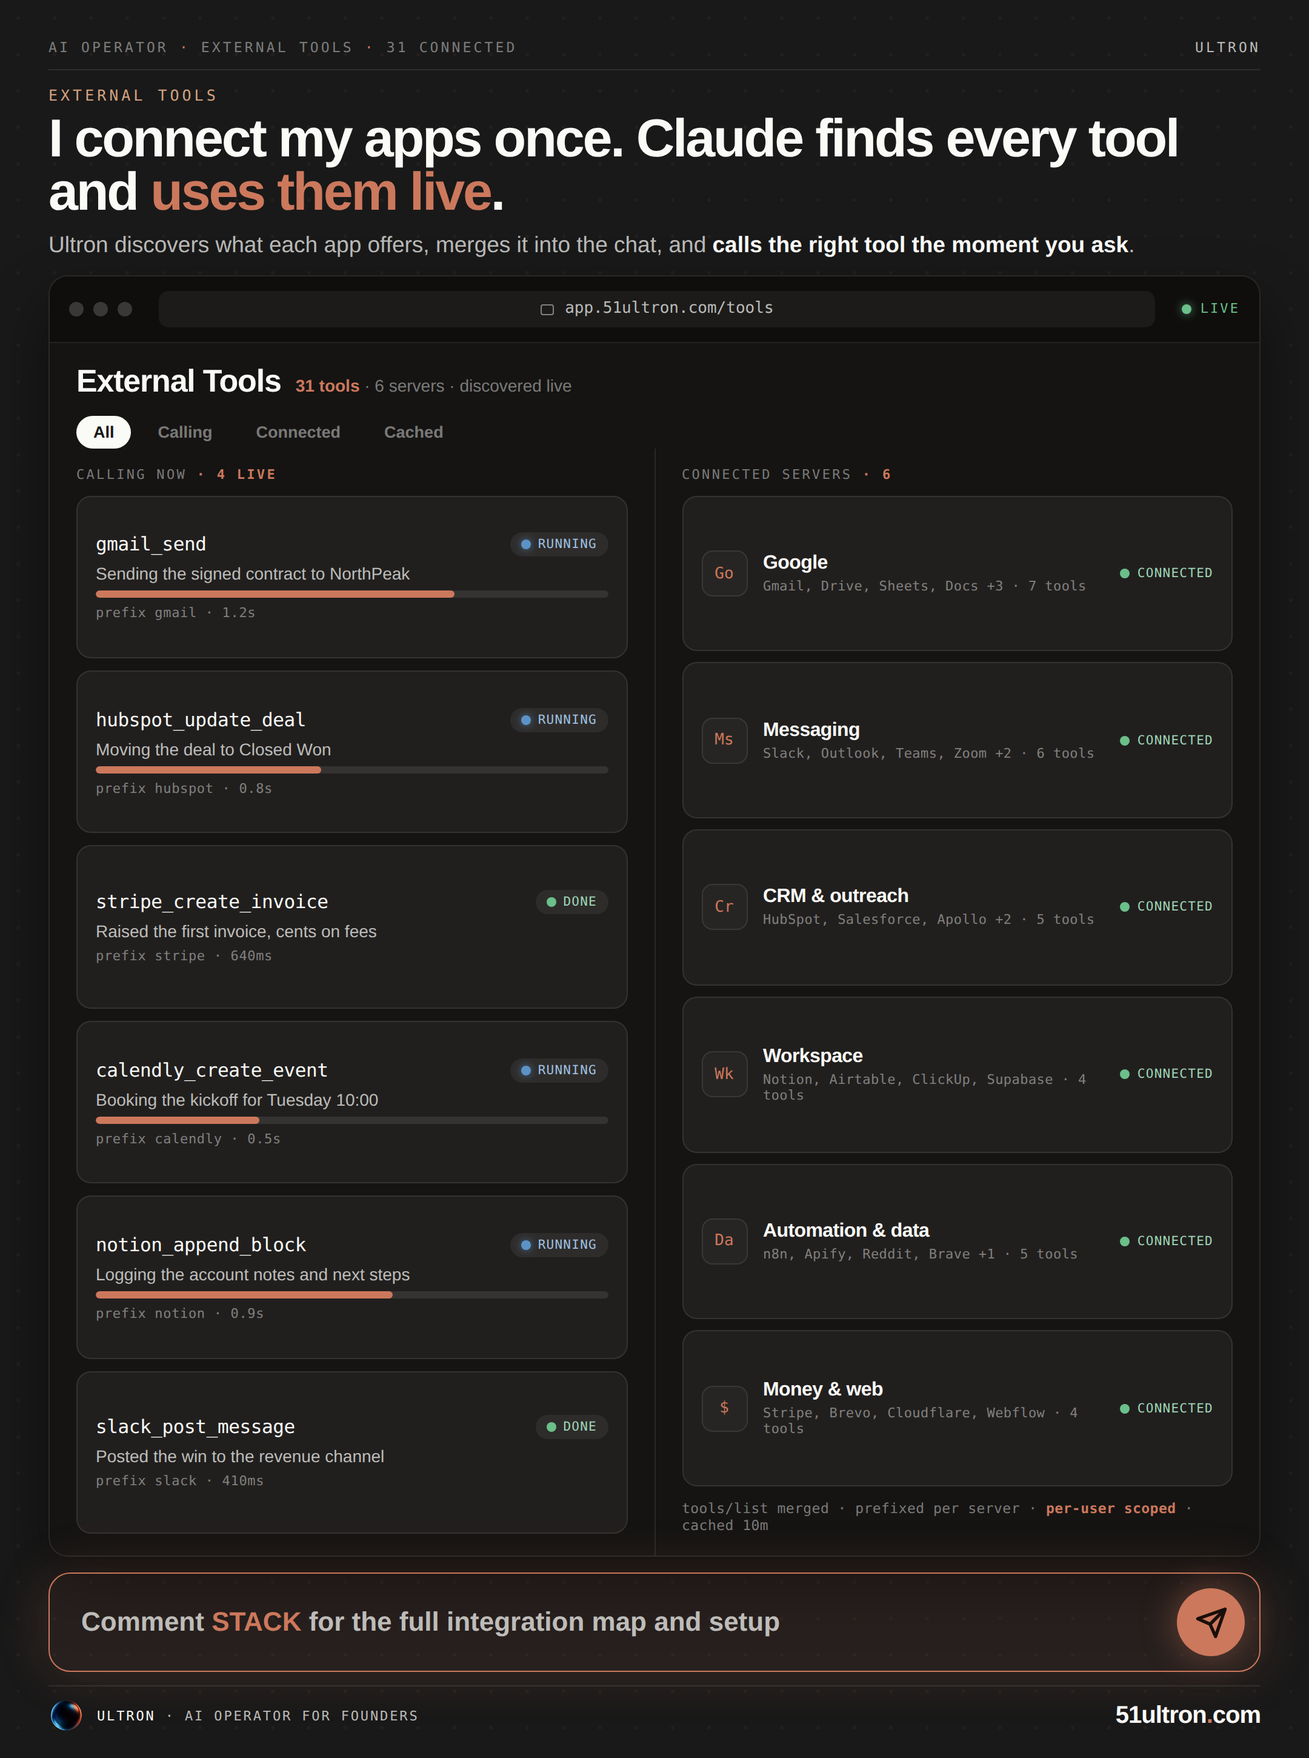
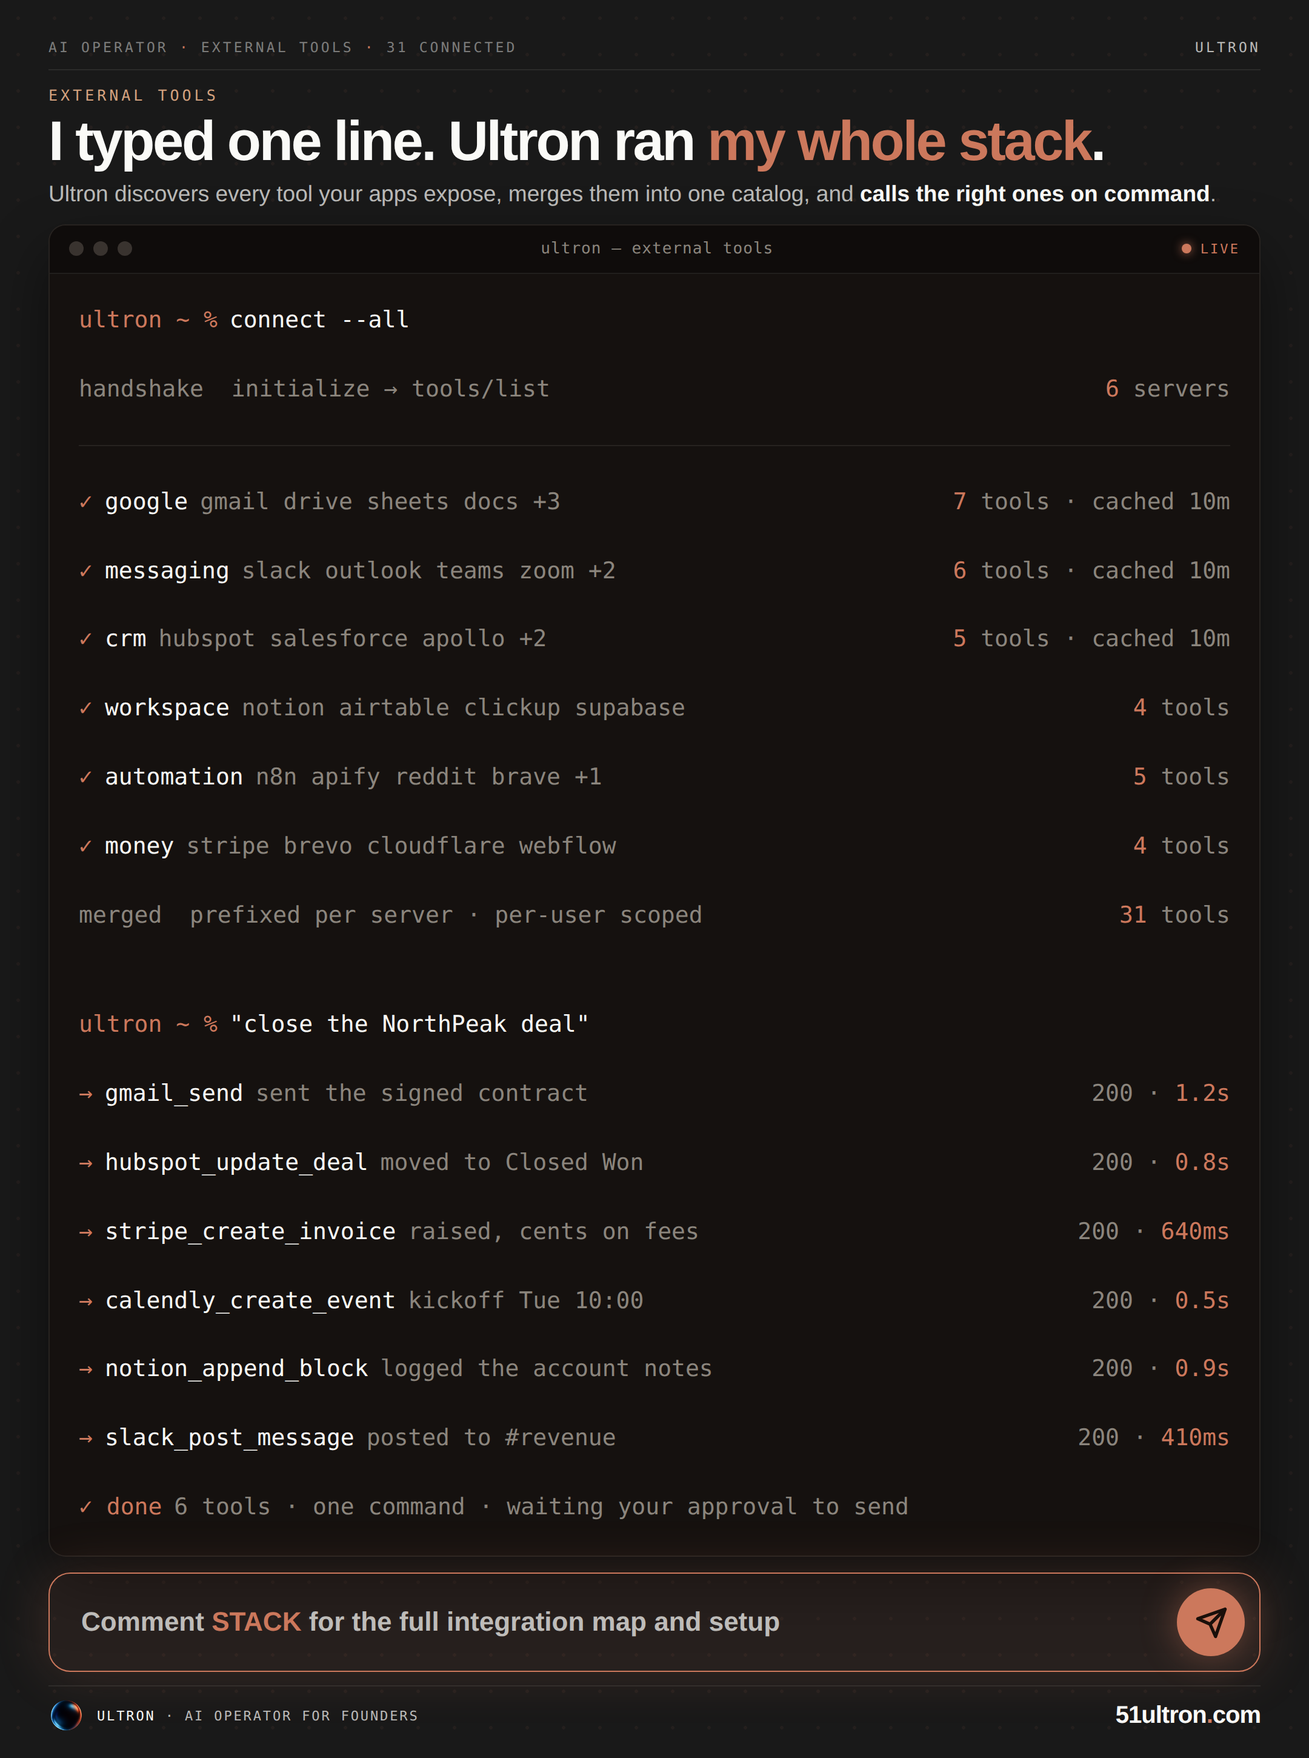
LinkedIn external-tools: rebuild as dense Ultron terminal (Ultron hook, terracotta console, edge-to-edge)

diff --git a/content/tools-external-linkedin.html b/content/tools-external-linkedin.html
@@ -5,11 +5,9 @@
 <title>tools-external - LinkedIn 1080x1450</title>
 <style>
 @import 'https://fonts.googleapis.com/css2?family=DM+Sans:opsz,wght@9..40,400;9..40,500;9..40,600;9..40,700;9..40,800;9..40,900&family=DM+Mono:wght@400;500&display=swap';
-/* tools-external v3 - the Background Jobs SCREEN look (dark, live processes) put in a laptop WINDOW,
-   external-tools context, packed edge to edge like the phone. No drawn laptop device. Flat 2D. */
-:root{--slate:#191919;--panel:#151413;--card:#211f1e;--card2:#272523;--ivory:#FAFAF7;--ink70:rgba(250,250,247,.72);
---ink46:rgba(250,250,247,.46);--rule:rgba(250,250,247,.09);--book:#CC785C;--book-d:#C84623;--kraft:#D4A27F;
---run:#5b93c7;--ok:#6bbf8a;}
+/* tools-external v4 - Ultron TERMINAL, dense external-tools console. Ultron hook (not Claude). Dark Ultron. */
+:root{--slate:#191919;--term:#15110f;--termbar:#0f0c0b;--ivory:#FAFAF7;--ink70:rgba(250,250,247,.72);--ink46:rgba(250,250,247,.46);
+--rule:rgba(250,250,247,.08);--book:#CC785C;--book-d:#C84623;--kraft:#D4A27F;--mut:#8b857d;}
 *{box-sizing:border-box;margin:0;padding:0;}
 body{background:#0d0d0d;display:flex;justify-content:center;padding:24px 0;font-family:'DM Sans',sans-serif;-webkit-font-smoothing:antialiased;}
 .frame{width:1080px;height:1450px;background:var(--slate);padding:32px 40px 20px;position:relative;overflow:hidden;color:var(--ivory);display:flex;flex-direction:column;}
@@ -17,55 +15,29 @@ body{background:#0d0d0d;display:flex;justify-content:center;padding:24px 0;font-
 .atm{position:absolute;inset:0;pointer-events:none;z-index:1;background:radial-gradient(ellipse 54% 20% at 90% -2%,rgba(204,120,92,.18) 0%,transparent 60%);}
 .frame>*{position:relative;z-index:2;}
 .mast{flex-shrink:0;display:flex;align-items:center;justify-content:space-between;padding-bottom:11px;border-bottom:1px solid var(--rule);font-family:'DM Mono',monospace;font-size:11.5px;font-weight:500;letter-spacing:.18em;text-transform:uppercase;}
-.mast .ml{color:var(--ink46);}.mast .ml em{color:var(--book);font-style:normal;}
-.mast .mr{color:var(--ink70);}
+.mast .ml{color:var(--ink46);}.mast .ml em{color:var(--book);font-style:normal;}.mast .mr{color:var(--ink70);}
 .hero{flex-shrink:0;margin-top:13px;}
 .eye{font-family:'DM Mono',monospace;font-size:12.5px;font-weight:500;letter-spacing:.2em;text-transform:uppercase;color:var(--kraft);}
-.hook{margin-top:7px;font-weight:900;font-size:44px;line-height:1;letter-spacing:-1.6px;}.hook em{color:var(--book);font-style:normal;}
+.hook{margin-top:7px;font-weight:900;font-size:46px;line-height:1;letter-spacing:-1.7px;}.hook em{color:var(--book);font-style:normal;}
 .sub{margin-top:9px;font-size:18.5px;font-weight:500;line-height:1.28;color:var(--ink70);max-width:1000px;}.sub b{color:var(--ivory);font-weight:700;}
-/* browser window */
-.win{flex:1;min-height:0;margin-top:13px;display:flex;flex-direction:column;border:1px solid var(--rule);border-radius:16px;overflow:hidden;background:var(--panel);box-shadow:0 24px 50px rgba(0,0,0,.45);}
-.wbar{flex-shrink:0;display:flex;align-items:center;gap:8px;padding:12px 16px;background:#0f0e0d;border-bottom:1px solid var(--rule);}
-.wbar .dot{width:12px;height:12px;border-radius:50%;background:#3a3836;}
-.wurl{flex:1;margin:0 14px;height:30px;border-radius:8px;background:#1c1b1a;display:flex;align-items:center;justify-content:center;gap:9px;font-family:'DM Mono',monospace;font-size:13px;color:var(--ink70);}
-.wurl .lock{width:11px;height:9px;border:1.5px solid var(--ink46);border-radius:2px;position:relative;margin-top:2px;}
-.wlive{display:flex;align-items:center;gap:7px;font-family:'DM Mono',monospace;font-size:11px;letter-spacing:.14em;text-transform:uppercase;color:var(--ok);}
-.wlive .d{width:8px;height:8px;border-radius:50%;background:var(--ok);box-shadow:0 0 8px rgba(107,191,138,.7);}
-/* app */
-.ahead{flex-shrink:0;padding:16px 22px 0;}
-.atop{display:flex;align-items:baseline;gap:12px;}
-.atop h1{font-weight:800;font-size:26px;letter-spacing:-.6px;}
-.atop .m{font-size:14px;color:var(--ink46);}.atop .m b{color:var(--book);font-weight:700;}
-.tabs{display:flex;gap:8px;margin-top:13px;}
-.tab{font-size:13.5px;font-weight:600;color:var(--ink46);padding:6px 14px;border-radius:18px;}
-.tab.on{background:var(--ivory);color:#161514;font-weight:800;}
-.acols{flex:1;min-height:0;display:flex;gap:0;}
-.col{flex:1;min-height:0;padding:15px 22px 18px;display:flex;flex-direction:column;}
-.col.l{border-right:1px solid var(--rule);}
-.clab{font-family:'DM Mono',monospace;font-size:11px;font-weight:500;letter-spacing:.15em;text-transform:uppercase;color:var(--ink46);margin-bottom:11px;}
-.clab b{color:var(--book);}
-.calls{flex:1;min-height:0;display:flex;flex-direction:column;gap:10px;}
-.call{flex:1;min-height:0;background:var(--card);border:1px solid var(--rule);border-radius:12px;padding:12px 15px;display:flex;flex-direction:column;justify-content:center;gap:6px;}
-.crow{display:flex;align-items:center;gap:9px;}
-.cname{font-family:'DM Mono',monospace;font-weight:500;font-size:15.5px;color:var(--ivory);letter-spacing:-.2px;}
-.chip{display:flex;align-items:center;gap:6px;font-family:'DM Mono',monospace;font-size:10.5px;font-weight:500;letter-spacing:.06em;text-transform:uppercase;padding:4px 9px;border-radius:16px;background:rgba(250,250,247,.06);color:var(--ink70);margin-left:auto;}
-.chip .sd{width:8px;height:8px;border-radius:50%;}
-.chip.run .sd{background:var(--run);box-shadow:0 0 7px rgba(91,147,199,.7);}.chip.run{color:#9fc0e0;}
-.chip.ok .sd{background:var(--ok);}.chip.ok{color:#9ed6b6;}
-.chip.q .sd{background:#6b6a66;}
-.cdesc{font-size:14px;color:var(--ink70);}
-.pbar{height:6px;border-radius:3px;background:rgba(250,250,247,.09);overflow:hidden;}.pbar>i{display:block;height:100%;background:var(--book);border-radius:3px;}
-.cmeta{font-family:'DM Mono',monospace;font-size:11px;color:var(--ink46);letter-spacing:.03em;}
-.srv{flex:1;min-height:0;display:flex;flex-direction:column;gap:9px;}
-.s{flex:1;min-height:0;background:var(--card);border:1px solid var(--rule);border-radius:12px;padding:11px 15px;display:flex;align-items:center;gap:13px;}
-.s .ic{width:38px;height:38px;flex-shrink:0;border-radius:9px;background:var(--card2);border:1px solid var(--rule);display:flex;align-items:center;justify-content:center;font-family:'DM Mono',monospace;font-weight:500;font-size:13px;color:var(--book);}
-.s .sx{flex:1;min-width:0;}
-.s .sn{font-weight:700;font-size:16px;letter-spacing:-.3px;}
-.s .sm{font-family:'DM Mono',monospace;font-size:11px;color:var(--ink46);margin-top:3px;letter-spacing:.02em;}
-.s .sc{display:flex;align-items:center;gap:6px;font-family:'DM Mono',monospace;font-size:10.5px;letter-spacing:.06em;text-transform:uppercase;color:#9ed6b6;flex-shrink:0;}
-.s .sc .sd{width:8px;height:8px;border-radius:50%;background:var(--ok);}
-.note{flex-shrink:0;margin-top:11px;font-family:'DM Mono',monospace;font-size:11.5px;color:var(--ink46);letter-spacing:.02em;}
-.note b{color:var(--book);}
+/* terminal */
+.term{flex:1;min-height:0;margin-top:13px;display:flex;flex-direction:column;border:1px solid var(--rule);border-radius:14px;overflow:hidden;background:var(--term);box-shadow:0 24px 50px rgba(0,0,0,.45);}
+.tbar{flex-shrink:0;display:flex;align-items:center;gap:8px;padding:12px 16px;background:var(--termbar);border-bottom:1px solid var(--rule);}
+.tbar .dot{width:12px;height:12px;border-radius:50%;background:#39332f;}
+.tbar .tt{flex:1;text-align:center;font-family:'DM Mono',monospace;font-size:13px;color:var(--mut);letter-spacing:.04em;}
+.tbar .lv{display:flex;align-items:center;gap:7px;font-family:'DM Mono',monospace;font-size:11px;letter-spacing:.14em;text-transform:uppercase;color:var(--book);}
+.tbar .lv .d{width:8px;height:8px;border-radius:50%;background:var(--book);box-shadow:0 0 8px rgba(204,120,92,.8);}
+.tbody{flex:1;min-height:0;padding:26px 24px;font-family:'DM Mono',monospace;display:flex;flex-direction:column;justify-content:space-between;gap:0;}
+.ln{display:flex;align-items:baseline;gap:10px;font-size:19px;line-height:1.35;white-space:nowrap;}
+.ln .p{color:var(--book);font-weight:500;}
+.ln .cmd{color:var(--ivory);font-weight:500;}
+.ln .ok{color:var(--book);}
+.ln .nm{color:var(--ivory);font-weight:500;}
+.ln .m{color:var(--mut);}
+.ln .r{margin-left:auto;color:var(--mut);}
+.ln .r b{color:var(--book);font-weight:500;}
+.sep{height:1px;background:var(--rule);margin:2px 0;}
+.blank{height:2px;}
 /* cta */
 .cta{flex-shrink:0;margin-top:13px;display:flex;align-items:center;gap:16px;border:1.5px solid var(--book);border-radius:18px;background:rgba(204,120,92,.08);padding:12px 12px 12px 26px;box-shadow:0 0 44px rgba(204,120,92,.2);}
 .cta .ph{flex:1;font-size:22px;font-weight:600;color:var(--ink70);line-height:1.2;}.cta .ph b{color:var(--book);font-weight:900;}
@@ -82,39 +54,31 @@ body{background:#0d0d0d;display:flex;justify-content:center;padding:24px 0;font-
   <div class="mast"><span class="ml">AI OPERATOR <em>&middot;</em> EXTERNAL TOOLS <em>&middot;</em> 31 CONNECTED</span><span class="mr">ULTRON</span></div>
   <div class="hero">
     <div class="eye">External tools</div>
-    <div class="hook">I connect my apps once. Claude finds every tool and <em>uses them live</em>.</div>
-    <div class="sub">Ultron discovers what each app offers, merges it into the chat, and <b>calls the right tool the moment you ask</b>.</div>
+    <div class="hook">I typed one line. Ultron ran <em>my whole stack</em>.</div>
+    <div class="sub">Ultron discovers every tool your apps expose, merges them into one catalog, and <b>calls the right ones on command</b>.</div>
   </div>
-  <div class="win">
-    <div class="wbar"><span class="dot"></span><span class="dot"></span><span class="dot"></span><span class="wurl"><span class="lock"></span>app.51ultron.com/tools</span><span class="wlive"><span class="d"></span>Live</span></div>
-    <div class="ahead">
-      <div class="atop"><h1>External Tools</h1><span class="m"><b>31 tools</b> &middot; 6 servers &middot; discovered live</span></div>
-      <div class="tabs"><span class="tab on">All</span><span class="tab">Calling</span><span class="tab">Connected</span><span class="tab">Cached</span></div>
-    </div>
-    <div class="acols">
-      <div class="col l">
-        <div class="clab">Calling now <b>&middot; 4 live</b></div>
-        <div class="calls">
-          <div class="call"><div class="crow"><span class="cname">gmail_send</span><span class="chip run"><span class="sd"></span>running</span></div><div class="cdesc">Sending the signed contract to NorthPeak</div><div class="pbar"><i style="width:70%"></i></div><div class="cmeta">prefix gmail &middot; 1.2s</div></div>
-          <div class="call"><div class="crow"><span class="cname">hubspot_update_deal</span><span class="chip run"><span class="sd"></span>running</span></div><div class="cdesc">Moving the deal to Closed Won</div><div class="pbar"><i style="width:44%"></i></div><div class="cmeta">prefix hubspot &middot; 0.8s</div></div>
-          <div class="call"><div class="crow"><span class="cname">stripe_create_invoice</span><span class="chip ok"><span class="sd"></span>done</span></div><div class="cdesc">Raised the first invoice, cents on fees</div><div class="cmeta">prefix stripe &middot; 640ms</div></div>
-          <div class="call"><div class="crow"><span class="cname">calendly_create_event</span><span class="chip run"><span class="sd"></span>running</span></div><div class="cdesc">Booking the kickoff for Tuesday 10:00</div><div class="pbar"><i style="width:32%"></i></div><div class="cmeta">prefix calendly &middot; 0.5s</div></div>
-          <div class="call"><div class="crow"><span class="cname">notion_append_block</span><span class="chip run"><span class="sd"></span>running</span></div><div class="cdesc">Logging the account notes and next steps</div><div class="pbar"><i style="width:58%"></i></div><div class="cmeta">prefix notion &middot; 0.9s</div></div>
-          <div class="call"><div class="crow"><span class="cname">slack_post_message</span><span class="chip ok"><span class="sd"></span>done</span></div><div class="cdesc">Posted the win to the revenue channel</div><div class="cmeta">prefix slack &middot; 410ms</div></div>
-        </div>
-      </div>
-      <div class="col">
-        <div class="clab">Connected servers <b>&middot; 6</b></div>
-        <div class="srv">
-          <div class="s"><span class="ic">Go</span><span class="sx"><div class="sn">Google</div><div class="sm">Gmail, Drive, Sheets, Docs +3 &middot; 7 tools</div></span><span class="sc"><span class="sd"></span>connected</span></div>
-          <div class="s"><span class="ic">Ms</span><span class="sx"><div class="sn">Messaging</div><div class="sm">Slack, Outlook, Teams, Zoom +2 &middot; 6 tools</div></span><span class="sc"><span class="sd"></span>connected</span></div>
-          <div class="s"><span class="ic">Cr</span><span class="sx"><div class="sn">CRM &amp; outreach</div><div class="sm">HubSpot, Salesforce, Apollo +2 &middot; 5 tools</div></span><span class="sc"><span class="sd"></span>connected</span></div>
-          <div class="s"><span class="ic">Wk</span><span class="sx"><div class="sn">Workspace</div><div class="sm">Notion, Airtable, ClickUp, Supabase &middot; 4 tools</div></span><span class="sc"><span class="sd"></span>connected</span></div>
-          <div class="s"><span class="ic">Da</span><span class="sx"><div class="sn">Automation &amp; data</div><div class="sm">n8n, Apify, Reddit, Brave +1 &middot; 5 tools</div></span><span class="sc"><span class="sd"></span>connected</span></div>
-          <div class="s"><span class="ic">$</span><span class="sx"><div class="sn">Money &amp; web</div><div class="sm">Stripe, Brevo, Cloudflare, Webflow &middot; 4 tools</div></span><span class="sc"><span class="sd"></span>connected</span></div>
-        </div>
-        <div class="note">tools/list merged &middot; prefixed per server &middot; <b>per-user scoped</b> &middot; cached 10m</div>
-      </div>
+  <div class="term">
+    <div class="tbar"><span class="dot"></span><span class="dot"></span><span class="dot"></span><span class="tt">ultron &mdash; external tools</span><span class="lv"><span class="d"></span>live</span></div>
+    <div class="tbody">
+      <div class="ln"><span class="p">ultron&nbsp;~&nbsp;%</span><span class="cmd">connect --all</span></div>
+      <div class="ln"><span class="m">handshake&nbsp;&nbsp;initialize &rarr; tools/list</span><span class="r"><b>6</b> servers</span></div>
+      <div class="sep"></div>
+      <div class="ln"><span class="ok">&check;</span><span class="nm">google</span><span class="m">gmail drive sheets docs +3</span><span class="r"><b>7</b> tools &middot; cached 10m</span></div>
+      <div class="ln"><span class="ok">&check;</span><span class="nm">messaging</span><span class="m">slack outlook teams zoom +2</span><span class="r"><b>6</b> tools &middot; cached 10m</span></div>
+      <div class="ln"><span class="ok">&check;</span><span class="nm">crm</span><span class="m">hubspot salesforce apollo +2</span><span class="r"><b>5</b> tools &middot; cached 10m</span></div>
+      <div class="ln"><span class="ok">&check;</span><span class="nm">workspace</span><span class="m">notion airtable clickup supabase</span><span class="r"><b>4</b> tools</span></div>
+      <div class="ln"><span class="ok">&check;</span><span class="nm">automation</span><span class="m">n8n apify reddit brave +1</span><span class="r"><b>5</b> tools</span></div>
+      <div class="ln"><span class="ok">&check;</span><span class="nm">money</span><span class="m">stripe brevo cloudflare webflow</span><span class="r"><b>4</b> tools</span></div>
+      <div class="ln"><span class="m">merged&nbsp;&nbsp;prefixed per server &middot; per-user scoped</span><span class="r"><b>31</b> tools</span></div>
+      <div class="blank"></div>
+      <div class="ln"><span class="p">ultron&nbsp;~&nbsp;%</span><span class="cmd">"close the NorthPeak deal"</span></div>
+      <div class="ln"><span class="p">&rarr;</span><span class="nm">gmail_send</span><span class="m">sent the signed contract</span><span class="r">200 &middot; <b>1.2s</b></span></div>
+      <div class="ln"><span class="p">&rarr;</span><span class="nm">hubspot_update_deal</span><span class="m">moved to Closed Won</span><span class="r">200 &middot; <b>0.8s</b></span></div>
+      <div class="ln"><span class="p">&rarr;</span><span class="nm">stripe_create_invoice</span><span class="m">raised, cents on fees</span><span class="r">200 &middot; <b>640ms</b></span></div>
+      <div class="ln"><span class="p">&rarr;</span><span class="nm">calendly_create_event</span><span class="m">kickoff Tue 10:00</span><span class="r">200 &middot; <b>0.5s</b></span></div>
+      <div class="ln"><span class="p">&rarr;</span><span class="nm">notion_append_block</span><span class="m">logged the account notes</span><span class="r">200 &middot; <b>0.9s</b></span></div>
+      <div class="ln"><span class="p">&rarr;</span><span class="nm">slack_post_message</span><span class="m">posted to #revenue</span><span class="r">200 &middot; <b>410ms</b></span></div>
+      <div class="ln"><span class="ok">&check; done</span><span class="m">6 tools &middot; one command &middot; waiting your approval to send</span></div>
     </div>
   </div>
   <div class="cta"><span class="ph">Comment <b>STACK</b> for the full integration map and setup</span><span class="send"><svg viewBox="0 0 24 24"><path d="M22 2 11 13M22 2l-7 20-4-9-9-4z"/></svg></span></div>

diff --git a/content/tools-external-linkedin-caption.md b/content/tools-external-linkedin-caption.md
@@ -15,4 +15,4 @@ Follow for one AI system for founders every day.
 Comment STACK and I will send you the full integration map and the exact setup we use.
 
 ALT TEXT:
-Dark editorial LinkedIn visual on a slate background. The headline reads I connect my apps once, Claude finds every tool and uses them live, with uses them live in book-orange. Below it, a browser window titled app.51ultron.com/tools with a Live indicator shows the Ultron External Tools screen in a dark live-console style. A header reads External Tools, 31 tools, 6 servers, discovered live, with tabs for All, Calling, Connected and Cached. The left column, Calling now, lists six live tool calls with status and progress: gmail_send running, hubspot_update_deal running, stripe_create_invoice done, calendly_create_event running, notion_append_block running, and slack_post_message done, each with its prefix and response time. The right column, Connected servers, lists six connected servers with tool counts: Google 7 tools, Messaging 6, CRM and outreach 5, Workspace 4, Automation and data 5, and Money and web 4, each marked connected. A footer line notes the catalog is merged, prefixed per server, per-user scoped and cached ten minutes. Closes with a Comment STACK call to action and the Ultron logo.
+Dark editorial LinkedIn visual on a slate background. The headline reads I typed one line, Ultron ran my whole stack, with my whole stack in book-orange. A sub-line notes Ultron discovers every tool your apps expose, merges them into one catalog and calls the right ones on command. Below sits an Ultron terminal window titled ultron external tools with a live indicator, styled as a dark warm console in monospace. The first command reads connect all, then a handshake line initialising tools list and finding 6 servers. Six server rows follow, each with a check mark and a tool count: google 7 tools cached ten minutes, messaging 6 tools cached, crm 5 tools cached, workspace 4 tools, automation 5 tools, and money 4 tools, then a merged line noting the catalog is prefixed per server and per-user scoped for 31 tools total. A second command reads close the NorthPeak deal, followed by six tool calls each returning 200 with a response time: gmail send sent the signed contract, hubspot update deal moved to Closed Won, stripe create invoice raised with cents on fees, calendly create event booked a kickoff, notion append block logged the account notes, and slack post message posted to revenue. A final line reads done, 6 tools, one command, waiting your approval to send. Closes with a Comment STACK call to action and the Ultron logo.
